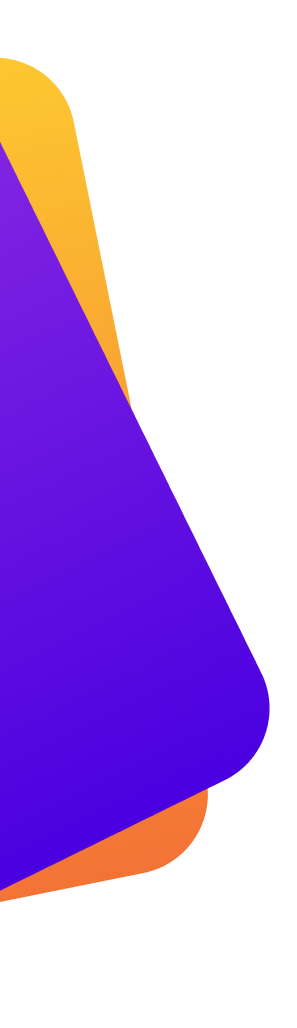
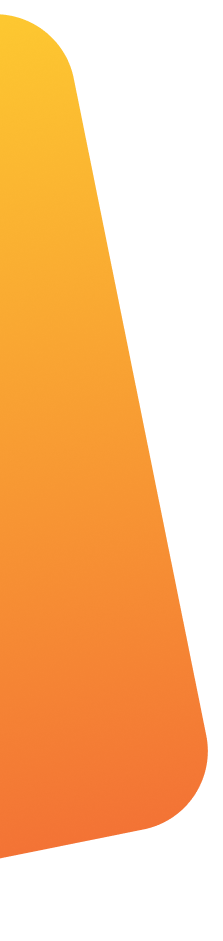
feat: update color scheme in globals.css, adjust typography sizes in Typography component, enhance Footer layout and responsiveness, and replace hero section images

diff --git a/components/layout/Footer.tsx b/components/layout/Footer.tsx
@@ -20,7 +20,7 @@ const Footer: React.FC = () => {
 
     return (
         <>
-            <footer className={`footer md:footer-horizontal gap-9 bg-primary text-base-content px-5.5 md:px-30 ${openSans.className}`}>
+            <footer className={`footer md:footer-horizontal gap-13  md:gap-9 bg-primary text-base-content px-5.5 md:px-30 ${openSans.className}`}>
                 <aside className="md:w-135 flex flex-col md:block items-center">
                     <figure className="relative size-51 md:size-39">
                         <Image
@@ -53,22 +53,31 @@ const Footer: React.FC = () => {
                     </div>
                 </aside>
 
-                <aside className="py-14">
-                    <div className="footer footer-horizontal gap-16">
+                <aside className="md:py-14 w-full md:w-auto gap-20">
+                    <div className="footer footer-horizontal justify-between md:gap-16">
                         <nav className="space-y-9">
                             <AncizarH6 className="font-normal">
                                 Quick Links
                             </AncizarH6>
-                            <ul className="flex flex-col space-y-4">
+                            <ul className="flex flex-col text-sm md:text-base space-y-4">
                                 <a className="link link-hover">Branding</a>
                                 <a className="link link-hover">Design</a>
                                 <a className="link link-hover">Marketing</a>
                                 <a className="link link-hover">Advertisement</a>
                             </ul>
-                            <div>
-                                <AncizarH6 className="font-normal">
-                                    Connect With Us
-                                </AncizarH6>
+                            <div className="hidden md:flex flex-col gap-9">
+                                <div>
+                                    <AncizarH6 className="font-normal">
+                                        Connect With Us
+                                    </AncizarH6>
+                                </div>
+
+                                <div>
+                                    <Link href={""} className="after:content-['·'] after:mx-2 last:after:content-['']">LinkedIn</Link>
+                                    <Link href={""} className="after:content-['·'] after:mx-2 last:after:content-['']">Instagram</Link>
+                                    <Link href={""} className="after:content-['·'] after:mx-2 last:after:content-['']">X</Link>
+                                    <Link href={""} className="after:content-['·'] after:mx-2 last:after:content-['']">Facebook</Link>
+                                </div>
                             </div>
                         </nav>
 
@@ -76,7 +85,7 @@ const Footer: React.FC = () => {
                             <AncizarH6 className="font-normal">
                                 Our Expertise
                             </AncizarH6>
-                            <ul className="flex flex-col space-y-4">
+                            <ul className="flex flex-col text-sm md:text-base space-y-4">
                                 <a className="link link-hover">Branding</a>
                                 <a className="link link-hover">Design</a>
                                 <a className="link link-hover">Marketing</a>
@@ -84,6 +93,21 @@ const Footer: React.FC = () => {
                             </ul>
                         </nav>
                     </div>
+                    <div className="flex md:hidden flex-col w-full items-center gap-9">
+                        <div>
+                            <AncizarH6 className="font-normal">
+                                Connect With Us
+                            </AncizarH6>
+                        </div>
+
+                        <div>
+                            <Link href={""} className="after:content-['·'] after:mx-2 last:after:content-['']">LinkedIn</Link>
+                            <Link href={""} className="after:content-['·'] after:mx-2 last:after:content-['']">Instagram</Link>
+                            <Link href={""} className="after:content-['·'] after:mx-2 last:after:content-['']">X</Link>
+                            <Link href={""} className="after:content-['·'] after:mx-2 last:after:content-['']">Facebook</Link>
+                        </div>
+                    </div>
+                    <p className="text-xs text-center md:text-left">© 2026 MyDigitalLawyer®. All rights reserved. Privacy Policy · Terms of Use · Disclaimer</p>
                 </aside>
             </footer>
         </>

diff --git a/components/Typography.tsx b/components/Typography.tsx
@@ -19,7 +19,7 @@ const AncizarH6: React.FC<ComponentProps<"h6">> = ({
             <h6
                 className={cn(
                     aSerif.className,
-                    "text-2xl",
+                    "text-lg md:text-2xl",
                     className
                 )}
                 {...props}

diff --git a/app/globals.css b/app/globals.css
@@ -14,7 +14,7 @@
   --color-base-200: #272727;
   --color-base-300: #303030;
   --color-base-content: #FFFFFF;
-  --color-primary: #FF6A0F;
+  --color-primary: #F4630C;
   --color-primary-content: #FFFFFF;
   --color-secondary: #1DCD9F;
   --color-secondary-content: #FFFFFF;
